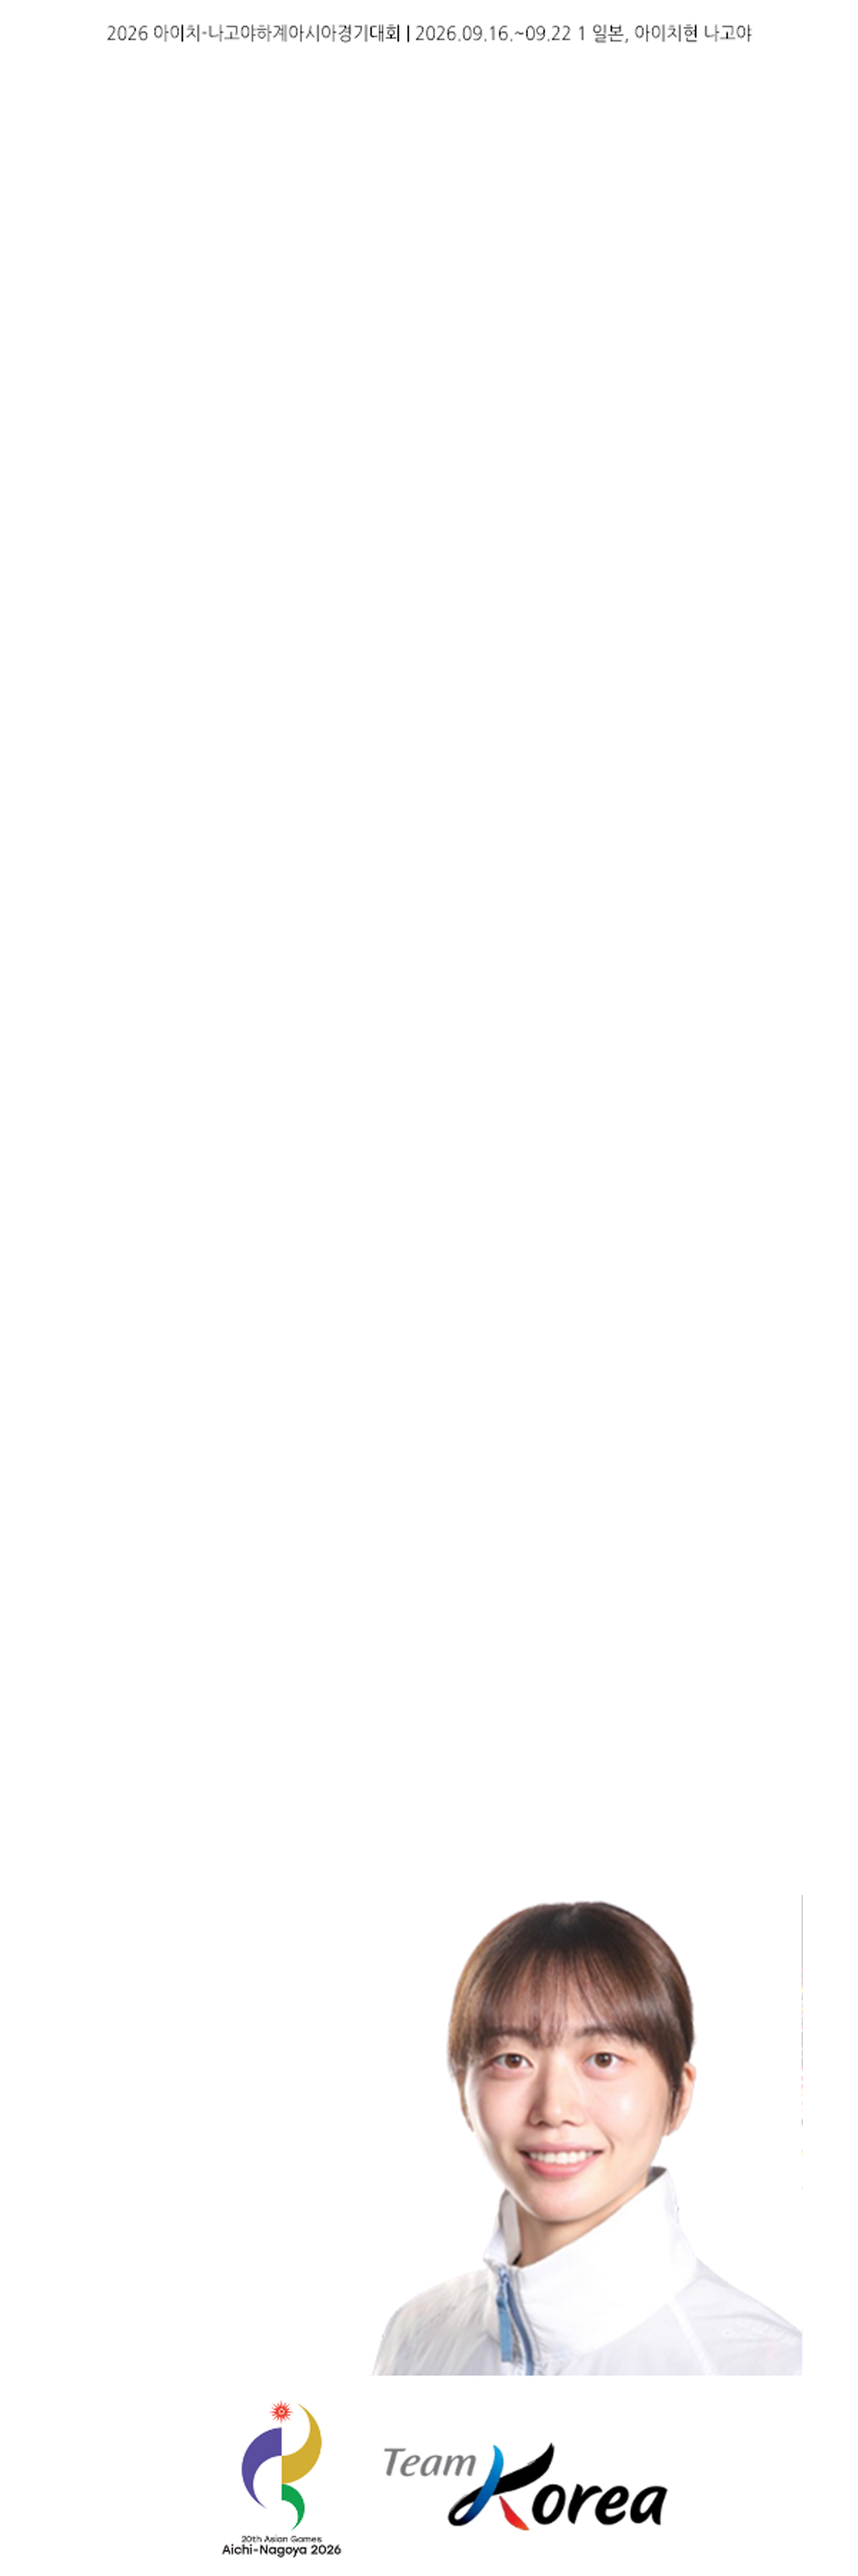
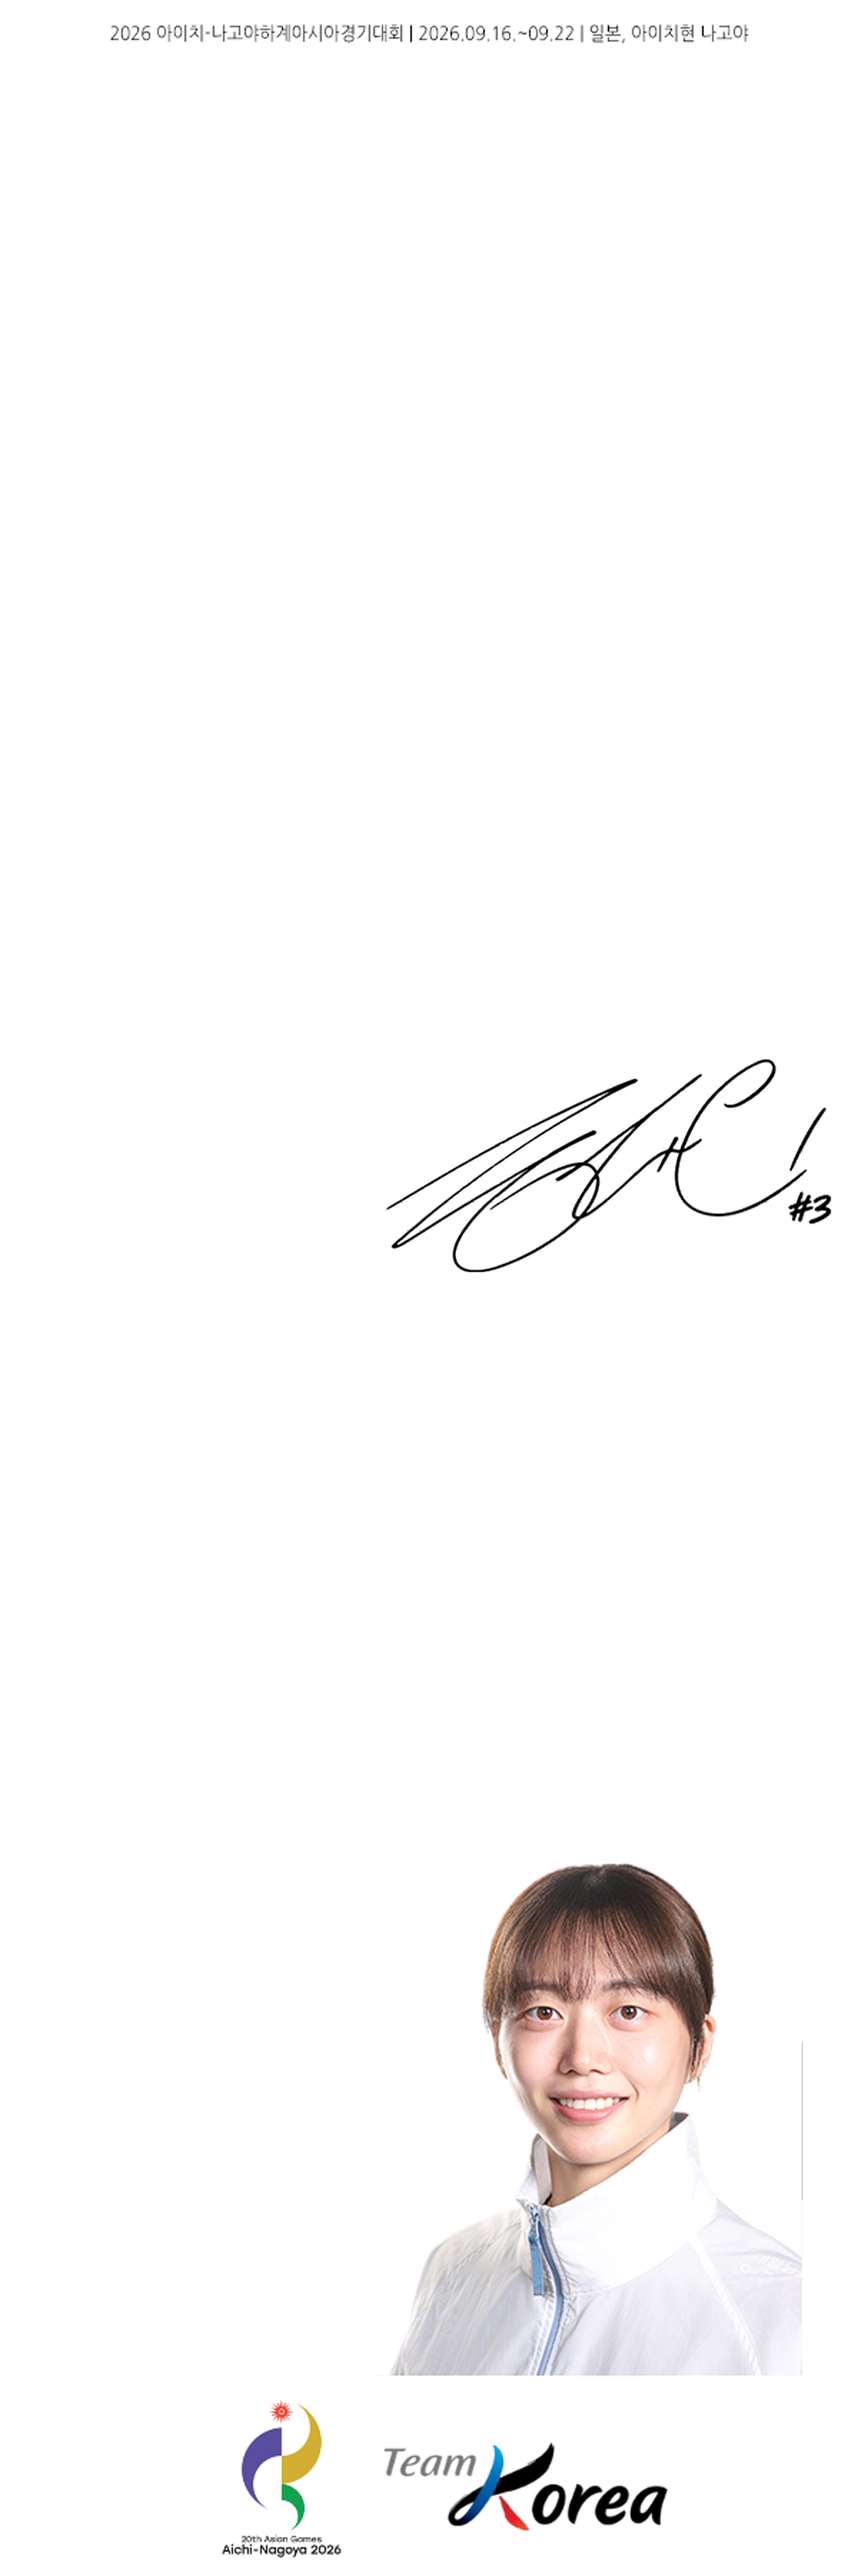
chore: 인생네컷 프레임 PNG 교체 및 공유 문구 갱신
새 daein·hillstate-national 프레임을 배포하고 캐시 무효화(v=2)와 /photo OG·공유 타이틀(다인네컷)을 맞춤.

diff --git a/app/photo/page.tsx b/app/photo/page.tsx
@@ -24,18 +24,25 @@ import {
 
 type Step = "frame" | "capture" | "result";
 
+/** public/frames PNG 교체 시 rev만 올리면 썸네일·칸 감지 캐시가 갱신됩니다 */
+const FRAME_PNG_REV = 2;
+
+function frameAssetSrc(path: string) {
+  return `${path}?v=${FRAME_PNG_REV}`;
+}
+
 const OVERLAY_FRAMES: OverlayFrameDef[] = [
   {
     id: "daein",
     label: "다인 국가대표",
     desc: "2026 아시안게임",
-    src: "/frames/daein.png",
+    src: frameAssetSrc("/frames/daein.png"),
   },
   {
     id: "hillstate-national",
     label: "현대건설 국가대표",
     desc: "2026 아시안게임",
-    src: "/frames/hillstate-national.png",
+    src: frameAssetSrc("/frames/hillstate-national.png"),
   },
 ];
 
@@ -184,9 +191,7 @@ export default function PhotoPage() {
     setLayoutLoading(true);
     setCellsInvalid(false);
     setDebugPreviewUrl(null);
-    if (process.env.NODE_ENV === "development") {
-      clearFrameLayoutCache(def.src);
-    }
+    clearFrameLayoutCache(def.src);
     try {
       const loaded = await loadFrameLayout(def.src);
       const next: FrameLayout = {
@@ -865,8 +870,8 @@ export default function PhotoPage() {
       if (navigator.share && navigator.canShare?.({ files: [file] })) {
         try {
           await navigator.share({
-            title: "daeni.kr 인생네컷",
-            text: "daeni.kr 인생네컷 📸",
+            title: "다인네컷",
+            text: "다인이와 인생네컷~ 📸 daeni.kr/photo",
             files: [file],
           });
           setSaving(false);

diff --git a/app/photo/layout.tsx b/app/photo/layout.tsx
@@ -4,13 +4,12 @@ import { SITE_URL } from "@/lib/seo-metadata";
 import "./photo-page.css";
 
 export const metadata: Metadata = {
-  title: "네컷 프레임 | daeni.kr",
-  description:
-    "국가대표 선발 기념 네컷 프레임으로 사진을 찍고 저장·공유하세요. 촬영본은 기기에만 저장됩니다.",
+  title: "다인네컷 | daeni.kr",
+  description: "다인이와 인생네컷~ 김다인 프레임으로 네 장 찍고 저장·공유해 보세요.",
   alternates: { canonical: `${SITE_URL}/photo` },
   openGraph: {
-    title: "네컷 프레임 | daeni.kr",
-    description: "국가대표 선발 기념 네컷 프레임 — daeni.kr",
+    title: "다인네컷 | daeni.kr",
+    description: "다인이와 인생네컷~",
     url: `${SITE_URL}/photo`,
     type: "website",
   },
